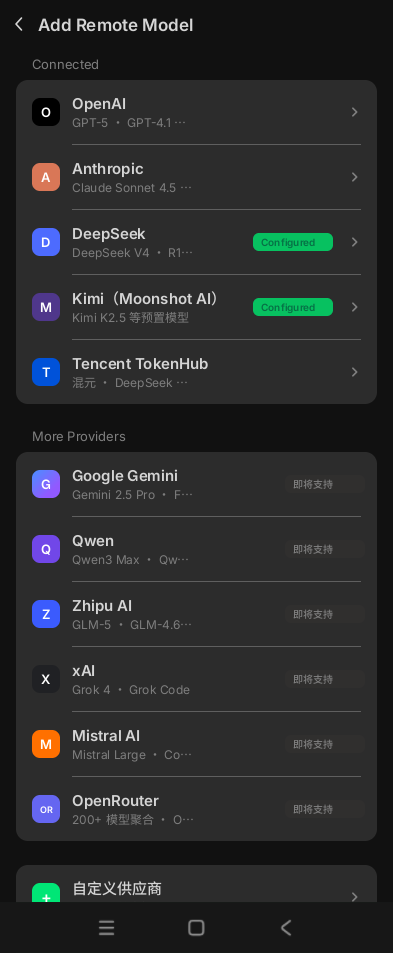
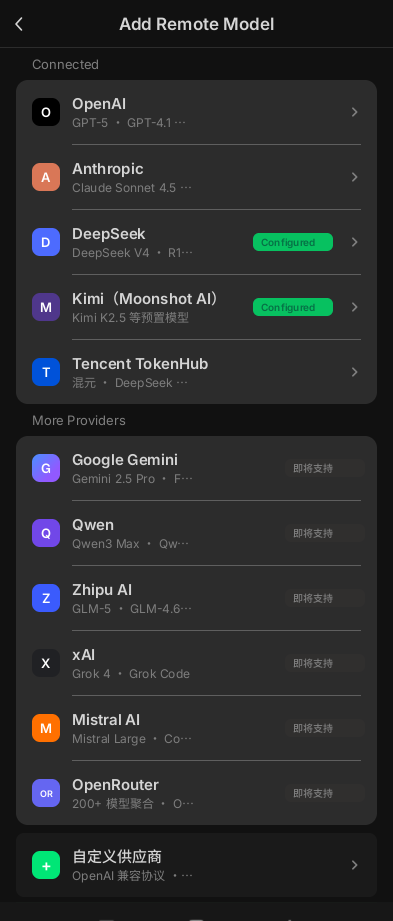
feat(design): T2 设置页微信列表化——8帧17组卡片→微信列表组
- token v3.0.3: 新增 colorScheme.cell(light白/dark #1A1A1A)语义槽位
- 组: cell填充+圆角8; 组间距24→8(灰底悬浮)
- 导航: 标题绝对定位居中(x198实测)+底hairline(outlineVariant)+关裁切
- 结构底子保留: divider左缩进56/行高56本就微信式
- 验证: Dark像素级全绿(底#111/cell#1A1A1A/hairline#2C2C2C/标题居中);全量health-check归零
- 已知: 根帧钉Light对新变量cell的模式传播失效(陈旧客户端病型,Dark正稿不受影响,待客户端重启复验)

diff --git a/iosApp/PoLang/DesignSystem/DesignTokens.swift b/iosApp/PoLang/DesignSystem/DesignTokens.swift
@@ -149,6 +149,7 @@ struct SchemeColors {
     let surfaceContainerHigh: Color
     let surfaceContainerHighest: Color
     let warmGrayIcon: Color
+    let cell: Color
 }
 
 enum AppColorScheme {
@@ -182,7 +183,8 @@ enum AppColorScheme {
         surfaceContainer: Color(hex: "FFF2F2F2"),
         surfaceContainerHigh: Color(hex: "FFEDEDED"),
         surfaceContainerHighest: Color(hex: "FFE5E5E5"),
-        warmGrayIcon: Color(hex: "FF888888")
+        warmGrayIcon: Color(hex: "FF888888"),
+        cell: Color.white
     )
 
     static let dark = SchemeColors(
@@ -215,7 +217,8 @@ enum AppColorScheme {
         surfaceContainer: Color(hex: "FF1A1A1A"),
         surfaceContainerHigh: Color(hex: "FF222222"),
         surfaceContainerHighest: Color(hex: "FF2C2C2C"),
-        warmGrayIcon: Color(hex: "FF7F7F7F")
+        warmGrayIcon: Color(hex: "FF7F7F7F"),
+        cell: Color(hex: "FF1A1A1A")
     )
 }
 

diff --git a/androidApp/src/main/java/com/mamba/picme/core/designsystem/Color.kt b/androidApp/src/main/java/com/mamba/picme/core/designsystem/Color.kt
@@ -38,6 +38,7 @@ val SurfaceContainerLight = Color(0xFFF2F2F2)
 val SurfaceContainerHighLight = Color(0xFFEDEDED)
 val SurfaceContainerHighestLight = Color(0xFFE5E5E5)
 val WarmGrayIconLight = Color(0xFF888888)
+val CellLight = Color.White
 
 val PrimaryDark = Color(0xFF07C160)
 val OnPrimaryDark = Color.White
@@ -69,6 +70,7 @@ val SurfaceContainerDark = Color(0xFF1A1A1A)
 val SurfaceContainerHighDark = Color(0xFF222222)
 val SurfaceContainerHighestDark = Color(0xFF2C2C2C)
 val WarmGrayIconDark = Color(0xFF7F7F7F)
+val CellDark = Color(0xFF1A1A1A)
 
 // ── 功能色（color 组，不随主题切换）。引用方式：MaterialTheme.appColors.focusRing ──────────
 val FocusRingColor = Color(0xFF00E5FF)
